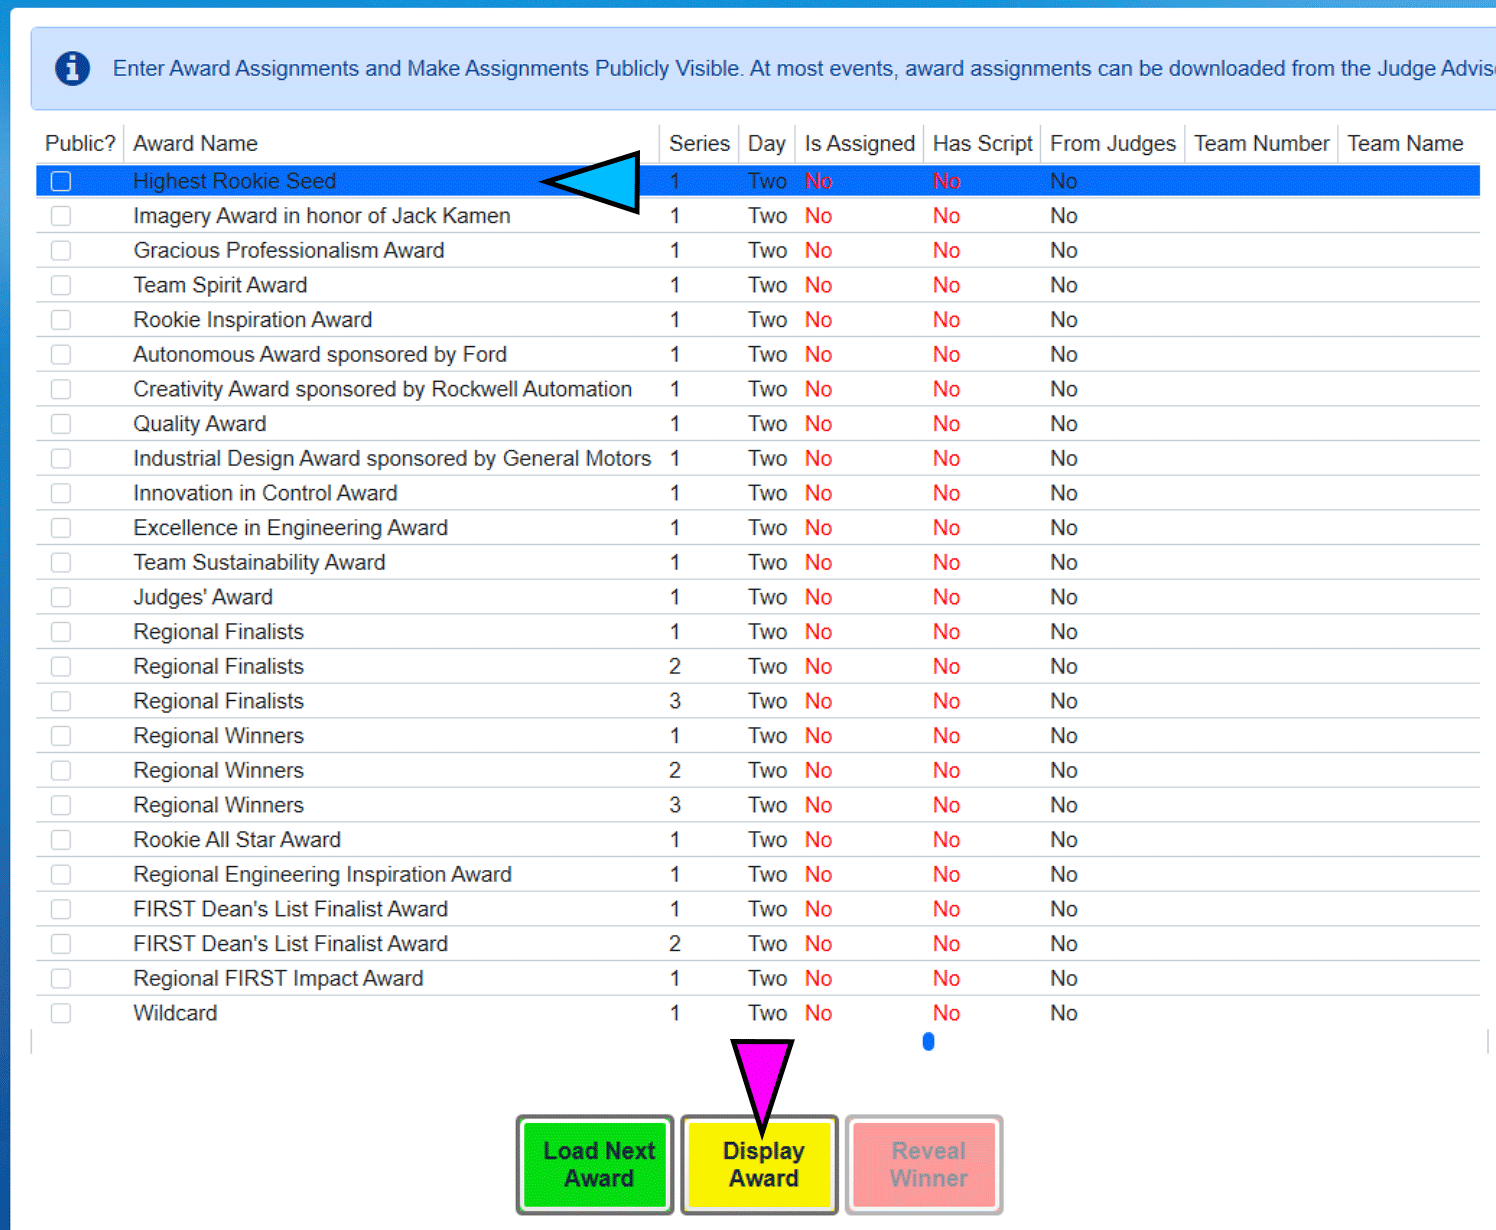
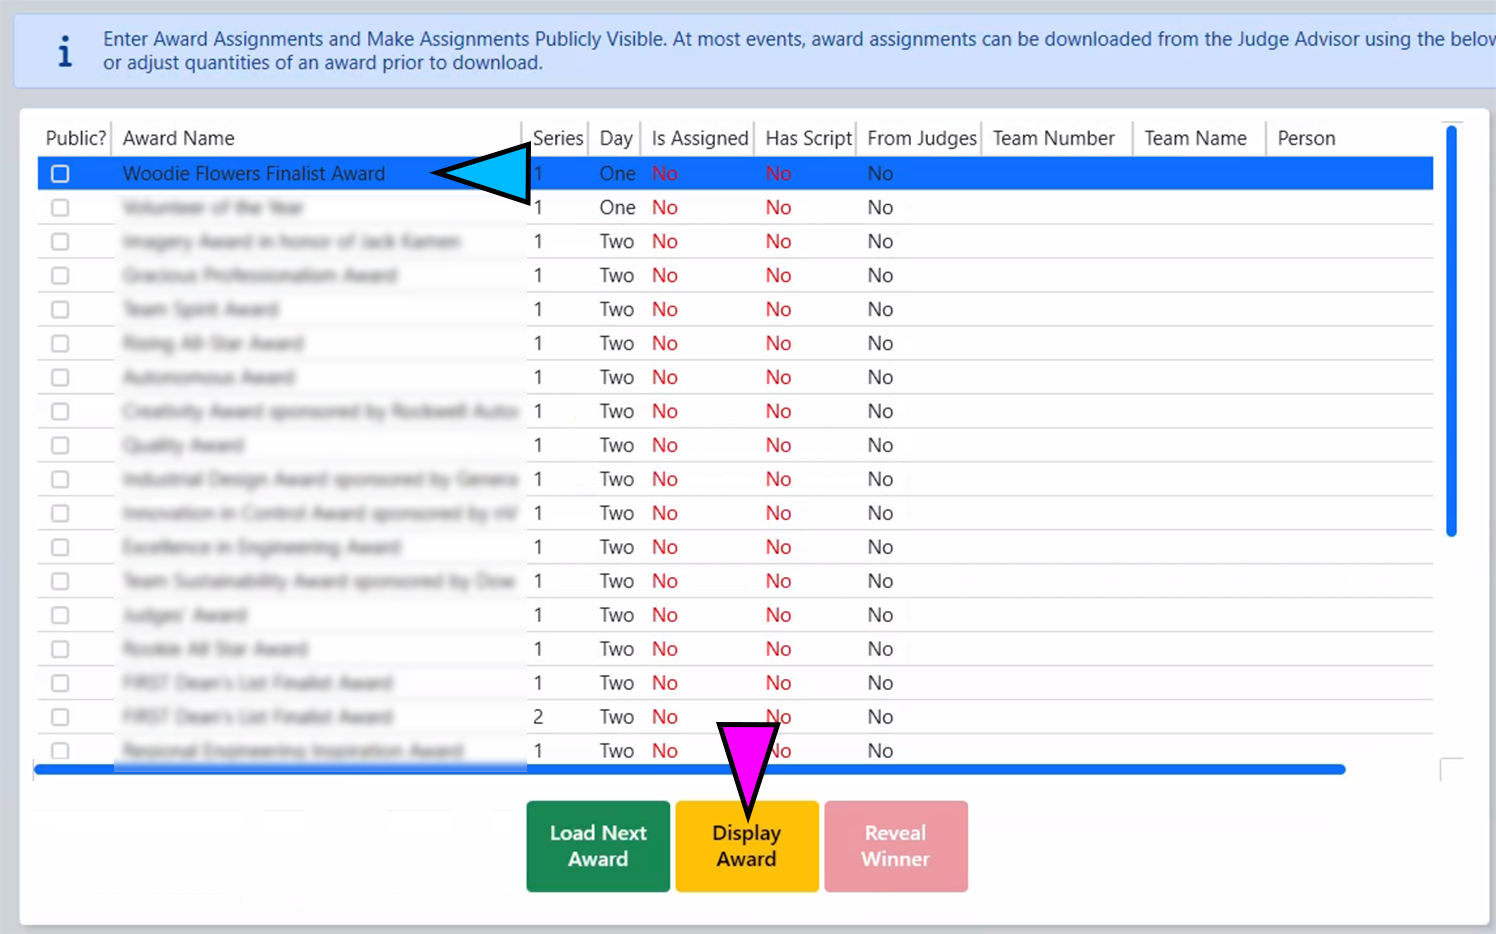
Event Manager / Wizard 2025
Changes to support 2025 game

diff --git a/source/event-manager/event-wizard/alliance-selection.rst b/source/event-manager/event-wizard/alliance-selection.rst
@@ -3,10 +3,12 @@
 Alliance Selection
 ======================
 
-.. image:: images/alliance-selection.png
+.. image:: images/alliance-selection-1.png
 
-[*Green Box*] At all official FRC Events, the 8-alliance tournament is used, but smaller Off-Season events may use other formats.
-The current settings, as picked on the Event Selection step, are displayed.
+[*Green Box*] Settings for the Alliance Selection and Playoff Tournament. At all official FRC Events the 8-alliance tournament is used, 
+but smaller Off-Season events may elect other formats. The current settings (as picked/downloaded on the Event Selection step) are displayed.
+
+[*Blue Box*] Timing controls for the Alliance Selection "Pick Timer" - outlined in more detail below
 
 [*Pink Box*] The list of available teams for selection is shown and can be viewed sorted by Rank (default) or by team number (the "Team #" tab).
 
@@ -15,10 +17,41 @@ The current settings, as picked on the Event Selection step, are displayed.
 The Scorekeeper populates the team numbers into the table on the center of the page. If a number is entered that is not in the available team list, an icon will appear in the upper left
 corner of the text box (and hover text will indicate the error). If a team number is entered twice, the newest entry takes priority and the old location is changed to blank.
 
-If an alliance captain is selected in a Round 1 pick, the captains from lower ranked alliances will be promoted automatically. If a team number is deleted, they're re-added
-to the available teams box. A team is only shown on the Audience Display (and removed from Available Teams) once focus is changed away from that team (such as tabbing out).
+If a team number is deleted, they're re-added to the available teams box. A team is only shown on the Audience Display (and removed from Available Teams) once focus is changed away from that team (such as tabbing out).
 
 .. note::
-    The recommended process is to only enter a team once they are guaranteed into that position, either because they accepted an invitation, or because they're the captain of the alliance making the next selection. This means that at the beginning of the Alliance Selection process, only the Alliance #1 captain will be filled in.
+    A team number should only be entered once they are guaranteed into that position (either because they accepted an invitation or because they're the captain of the alliance making the next selection).
+    This means that at the beginning of the Alliance Selection process, only the Alliance #1 captain should be entered.
 
 Once the selection process is complete, select "Save" and move on to the next step of the Wizard.
+
+Pick Timer
+#################################
+
+.. warning::
+    The official timing and rules for the "Pick Timer" in Alliance Selection is outlined in the Tournament section (section 10) of the official Game Manual.
+
+By default the Pick Timer is controlled by the FTA via the Head Referee panel (shown below), in which case the software controls will be disabled (shown on the left). 
+In off-season events or when the hardware is unavailable, selecting "FMS" Timer Control will enable the software control buttons. 
+
+.. image:: images/alliance-selection-2.png
+    :align: center
+    :width: 450
+
+The buttons in the Head Referee panel directly mirror the FMS interface:
+
+* The green "Play" button is the "Timer Start" button
+* The red "Pause" button is the "Timer Pause" button
+* The purple "Reset" button is the "Reset Pick Timer" button in the top of the green box
+    
+.. image:: images/alliance-selection-3.png
+    :align: center
+    :width: 500
+
+The Reset button will automatically reset to the correct time based on which round of selections are in progress. 
+Under normal operation, the Scorekeeper focuses on entering the Captain and selected team numbers into FMS while the 
+FTA (or their designee) focuses on managing the Pick Timer.
+
+The Scorekeeper starts and stops the timer during the scheduled breaks, which happen between the last Qualification match and the 
+start of the Alliance Selection process as well as between each "round" of Alliance Selection. The can be started using the 2:00 
+and 8:00 buttons in the interface.

diff --git a/source/event-manager/navigation-and-indicators/tab-navigation.rst b/source/event-manager/navigation-and-indicators/tab-navigation.rst
@@ -12,14 +12,14 @@ Opening View
 
 The above shows the Event Manager interface when opened for the first time. The different tools are accessed via the tabs along the top of the window. These tools are:
 
-* :ref:`event-wizard-nav` - the main interface for setting up the entire tournament. Creating match schedules, input award winners, generating WPA keys, etc. are all done from this interface
-* :ref:`match-play-interface` - the main interface for starting and stopping matches, managing the score, and controlling the information posted to the Audience screen
-* :ref:`match-play-test` - the tool used to test the playing field in order to verify proper functionality of all electronics and scoring devices
-* :ref:`match-review-match-review` - review or modify the score from a previous match
-* :ref:`field-test-field-test` - perform basic initial functionality tests of the playing field (not available in Off-Season version)
-* :ref:`reports-reports` - generating printable reports such as match schedules, team lists, or printouts for Announcers are all handled through this interface
-* :ref:`settings-network-status` - Global settings for the software, as well as Administrative functions
-* :ref:`about-tab` - shows the current software version number, allows updates, and shows the EULA
+* :ref:`Event Wizard <event-wizard-nav>` - the main interface for setting up the entire tournament. Creating match schedules, input award winners, generating WPA keys, etc. are all done from this interface
+* :ref:`Match Play <match-play-interface>` - the main interface for starting and stopping matches, managing the score, and controlling the information posted to the Audience screen
+* :ref:`Match Test <match-play-test>` - the tool used to test the playing field in order to verify proper functionality of all electronics and scoring devices
+* :ref:`Match Review <match-review-match-review>` - review or modify the score from a previous match
+* :ref:`Field Test <field-test-field-test>` - perform basic initial functionality tests of the playing field (not available in Off-Season version)
+* :ref:`Reports <reports-reports>` - generating printable reports such as match schedules, team lists, or printouts for Announcers are all handled through this interface
+* :ref:`Settings <settings-network-status>` - Global settings for the software, as well as Administrative functions
+* :ref:`About <about-tab>` - shows the current software version number, allows updates, and shows the EULA
 
 
 Further details on each function are detailed later in this User Guide.

diff --git a/source/event-manager/event-wizard/wildcards.rst b/source/event-manager/event-wizard/wildcards.rst
@@ -3,20 +3,9 @@
 Wildcards
 ===========
 
-.. image:: images/wildcards.png
+In previous seasons, Wildcards were occasionally generated at Regional events to afford the opportunity for additional teams to attend
+the FIRST Championship. This process has been replaced by a points system. For more information, please see the FRC Blog Post at:
 
-Per the FRC Manual, Wildcards are sometimes generated at Regional events and afford the opportunity for additional teams to attend
-the FIRST Championship. This step of the Wizard assists the Scorekeeper in determining if the event has any Wildcards, and to which team the award should be given.
+`https://community.firstinspires.org/regional-advancement-task-force-update <https://community.firstinspires.org/regional-advancement-task-force-update>`_
 
-Four prerequisites (*the green box*) are required in order for the "Calculate Wildcards" button to become active:
-
-* *Wildcard Eligible Event* - the current event must be a Regional event, Wildcards are not generated at other event types
-* *FMS Data up-to-date* - The current FMS team list must have been downloaded recently. If the data is old "Stale" will appear. Click Data Download to update the data as needed.
-* *Playoffs Complete* - All required Playoff matches have been played (aka there is a declared winning alliance of the Playoff Tournament)
-* *Culture Awards Assigned* - All the FIRST Championship qualifying awards must have been assigned and awarded (they need not have been presented to the audience)
-
-Once all prerequisites are complete, the "Calculate Wildcards" (*gold box*) button becomes active. If any Wildcards are generated at the event the recipients will be listed in the area
-represented by the *pink box*. The accompanying script for the Emcee/Announcer to read at the conclusion of the Awards Ceremony is available via Reports (Wildcard Script).
-
-If any validation errors occur, or any status messages, they will appear in the spot shown by the red arrow. If no Wildcards are generated, the words No Wildcards
-To Award will appear under the status message area, to the right.
+*Please note that this article will be removed after the 2025 season, but remain until then as a courtesy reminder*

diff --git a/source/event-manager/event-wizard/award-assignments.rst b/source/event-manager/event-wizard/award-assignments.rst
@@ -53,8 +53,8 @@ When assignments have been released, a message will be posted to the Slack chann
 
 .. image:: images/awards-5.png
 
-After assignments are downloaded, the "Is Assigned" and "Has Script" fields should change to "Yes" to reflect that they were successfully downloaded. The "Is Assigned" field will still change 
-to "Yes" if an award was assigned manually.
+After assignments are downloaded, the "Is Assigned" and "Has Script" fields should change to "Yes" to reflect that they were successfully downloaded, along with "Yes" appearing in the "From Judges" column.
+The "Is Assigned" field will still change to "Yes" if an award was assigned manually.
 
 .. note::
     Not all awards have an associated script, so it is possible that "Has Script" may remain a "No" even after a successful download of an award. For example, the Dean's List awards do not have scripts.
@@ -96,6 +96,8 @@ Manual Award Assignments (Backup)
     This is a backup process and should only be done upon direction of FIRST HQ and/or your FTA
 
 .. image:: images/awards-9.png
+    :align: center
+    :width: 450
 
 When in manual assignment mode, click on an award to assign and select the "Assign Award" button.
 
@@ -124,11 +126,11 @@ first and last name fields additionally appear. Selecting the winner from the dr
 Award Assignment Confirmation Messages
 ######################################
 
-.. image:: images/award-assignments-7.png
-
 When a team number is entered on the Assign Award dialogue, there are potential confirmation messages that can be presented.
 
-.. image:: images/award-assignments-7.png
+.. image:: images/awards-11.png
+    :align: center
+    :width: 350
 
 Upon each award assignment, the assignment is compared against an eligibility algorithm for the given team to determine if they qualify for that award.
 If an attempt is made to assign an award to an ineligible team, a message is presented and requires attention.

diff --git a/source/event-manager/event-wizard/team-selection.rst b/source/event-manager/event-wizard/team-selection.rst
@@ -11,7 +11,7 @@ View and Add Registrations
 .. image:: images/team-selection-1.png
 
 
-Team Selection displays the downloaded list of registered FRC teams, with those registered for the event pre-checked. This list should be used to verify all the teams registered are actually present at the venue.
+Team Selection displays the downloaded list of registered FRC teams, with those registered for the event pre-checked. This list should be used to verify all the teams registered are actually present at the venue. The qualification version of the page is shown here, but the process looks the same for practice matches.
 
 .. note::
   The Qualification schedule should not be generated until all teams have arrived at the venue, or otherwise instructed by HQ and/or the local event manager. Otherwise, a schedule may need to be re-generated if a team ends up not attending and there may be confusion if multiple versions of the schedule have been created. 

diff --git a/source/event-manager/event-wizard/activate-schedule.rst b/source/event-manager/event-wizard/activate-schedule.rst
@@ -4,12 +4,16 @@ Activate Schedule
 ======================
 
 .. image:: images/activate-schedule-1.png
+    :align: center
+    :width: 400
 
 After the schedule has been generated and alliances defined, the schedule must be activated in order to use Match Play or appear on the web.
 
+[*Gold Box*] The currently active level in Match Play
+
 [*Pink Box*] All levels that are publicly visible
 
-[*Green Box*] Used to make the schedule available for Match Play and available for viewing on the FIRST website (the schedule does not sync in FMS Off-Season or when disabled)
+[*Green Box*] Used to make the schedule available for Match Play and available for viewing on the FIRST website and API (the schedule does not sync in FMS Off-Season or when disabled)
 
 Database Backup
 ###############

diff --git a/source/event-manager/event-wizard/navigation.rst b/source/event-manager/event-wizard/navigation.rst
@@ -14,6 +14,8 @@ This process continues until the entire wizard is complete.
 Each step of the Event Wizard is shown in this chapter along with a detailed description of the functionality found on each page. For some elements, like activating a schedule,
 the process is the same for all phases of the tournament. In those cases, the steps are not shown multiple times, but rather noted that it applies multiple times and only listed once.
 
+Steps that are not available or not applicable will be disabled. Steps will enable/disable as prerequisites are completed and the event progresses.
+
 [*Red Box*] The left side of the screen is used to navigate between available wizard steps.
 
 [*Green Box*] The right side displays the content for the selected wizard step.

diff --git a/source/event-manager/event-wizard/archive-upload.rst b/source/event-manager/event-wizard/archive-upload.rst
@@ -1,11 +1,11 @@
 .. _event-wizard-archive-upload:
 
-Archive and Upload
+Event Upload
 ======================
 
-.. image:: images/archive-upload.png
+.. image:: images/event-upload.png
 
-The Event Data Upload step is used to do a complete backup of all event information. Copies are placed on the Event Server, USB drive (which must be connected),
+The Event Data Upload step is used to do a complete backup of all event information. Copies are placed on the local Server, USB drive (which must be connected),
 as well as uploaded to FIRST (provided an Internet connection is available and the event is an official FIRST event).
 Verification is also done to confirm the upload was successful.
 

diff --git a/source/event-manager/navigation-and-indicators/indicators.rst b/source/event-manager/navigation-and-indicators/indicators.rst
@@ -12,7 +12,7 @@ Indicator Bar
 
 [*Green Box*] The bubble indicators relay quick status information about major hardware and software status information on the field. The bubbles are not displayed in the Off-Season version.
 
-* "A" - Status of the Game-Specific Field Hardware
+* "A" - Status of the Game-Specific Field Hardware and Red/Blue SCC (Field Automation)
 * "Heart" - PLC Heartbeat and Arena Light Status (flashes at 1Hz)
 * "Whistle" - Referee screen status (If red, the number of screens missing are displayed)
 * "USB Symbol" - Backup Status

diff --git a/source/overview-key-terminology/terminology.rst b/source/overview-key-terminology/terminology.rst
@@ -39,3 +39,6 @@ A fair number of acronyms are used throughout this manual. Below is a list of ma
    * - 
      - Pit Display
      - A laptop, provided by FIRST that displays ranking information at each event to people not in the immediate area of the field
+   * - 
+     - Vivid
+     - Manufacturer of the FRC Robot Radio that went into service in late 2024

diff --git a/source/overview-key-terminology/about-fms-documentation-notes.rst b/source/overview-key-terminology/about-fms-documentation-notes.rst
@@ -19,7 +19,7 @@ Information provided in this documentation is not intended to overrule or supers
 Current Revision
 ################
 
-.. image:: images/crescendologo.png
+.. image:: images/reefscape.webp
 	:align: center
 	:alt: FRC Current Season Game Logo
 
